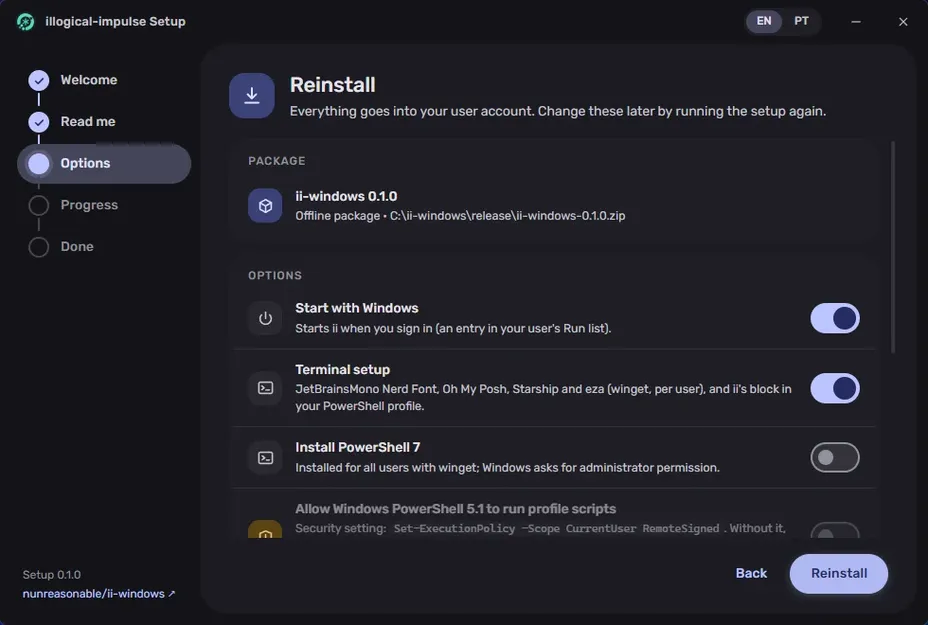
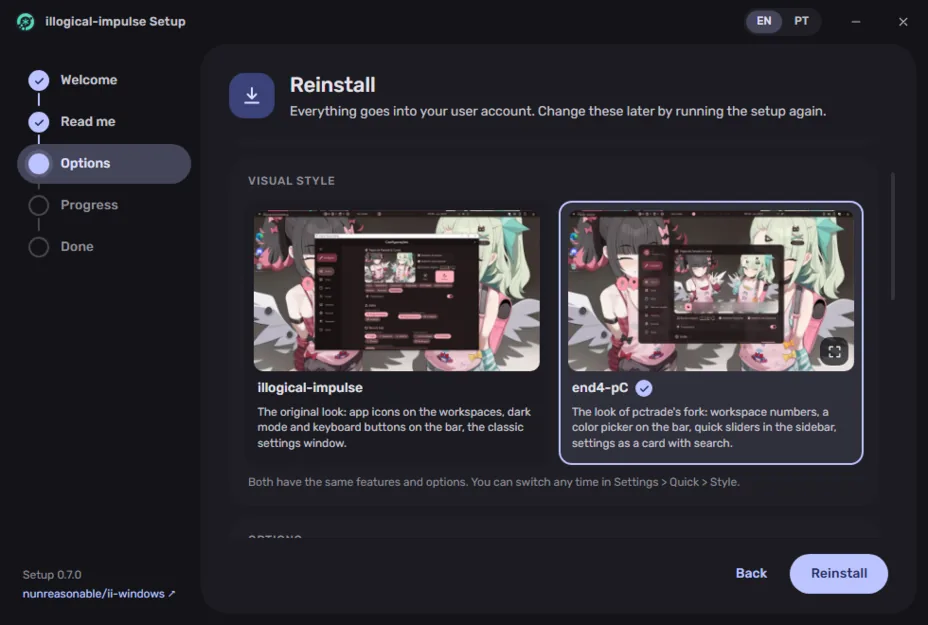
ii-windows 0.7.0: dois visuais, mais leve e mais rápido

diff --git a/filearchive/i18n/dict/illogicalwindows.js b/filearchive/i18n/dict/illogicalwindows.js
@@ -91,7 +91,7 @@ export const pt = {
   "iw.a.tile.bluroff": "O blur só existe enquanto a transparência do ii está ligada, e se desliga com os efeitos de transparência do Windows desativados, alto contraste, economia de energia ou esta variável.",
   "iw.a.input.title": "Entrada e sessão",
   "iw.a.input.spotlight": "Apertar só a tecla Super abre um Spotlight só de busca (apps com os ícones das próprias entradas, arquivos, histórico da área de transferência, emoji, ações do sistema e busca na web); Super+Tab abre os workspaces com as janelas deles. Configurações > Serviços > Busca volta ao overview anterior.",
-  "iw.a.input.coldstart": "Numa VM limitada a dois núcleos lentos e um disco lento, a barra aparece em uns 2 s (0.6.1: uns 5 s; 0.5.0: uns 43 s). Um cache de varredura (qmlscan.bin) pula os ~600 arquivos QML com tamanho e data iguais, e o deploy e o instalador preservam as datas dos arquivos para o cache sobreviver às atualizações. O ii vem com um pacote de bytecode QML pré-compilado, cria a barra primeiro e deixa o resto esperando o primeiro quadro dela: a DLL dos desktops virtuais, a lista inicial de janelas, a reserva da AppBar, rede, mídia, Bluetooth, dispositivos de áudio extras, a bandeja e o compositor do blur do Windows 11. Trabalhos lentos (entradas de apps, miniaturas, sondagens de brilho por WMI) rodam num pool de threads pequeno e dedicado, tema e traduções chegam antes da barra, e nada abre PowerShell nem cmd ao iniciar. Os hooks de entrada saem do estrangulamento de processos em segundo plano do Windows 11.",
+  "iw.a.input.coldstart": "Numa VM limitada a dois núcleos lentos e um disco lento, a barra aparece em uns 1,6 s (0.6.2: uns 1,8 s; 0.6.1: uns 5 s; 0.5.0: uns 43 s). Um cache de varredura (qmlscan.bin) pula os ~600 arquivos QML com tamanho e data iguais e roda numa thread junto com as fontes, e o deploy e o instalador preservam as datas dos arquivos para o cache sobreviver às atualizações. O ii vem com um pacote de bytecode QML pré-compilado, cria a barra primeiro e deixa o resto esperando o primeiro quadro dela: a DLL dos desktops virtuais, a lista inicial de janelas, a reserva da AppBar, rede, mídia, Bluetooth, dispositivos de áudio extras, a bandeja e o compositor do blur do Windows 11. Trabalhos lentos (entradas de apps, miniaturas, sondagens de brilho por WMI) rodam num pool de threads pequeno e dedicado, tema e traduções chegam antes da barra, e nada abre PowerShell nem cmd ao iniciar. Os hooks de entrada saem do estrangulamento de processos em segundo plano do Windows 11.",
   "iw.a.input.hotkeys": "Atalhos globais, com um hook de teclado de baixo nível para a tecla Super isolada. Os binds carregam só no processo do shell.qml (as configurações e a tela de boas-vindas não os registram); os usuários editam o keybinds.json em %LOCALAPPDATA%\\illogical-impulse.",
   "iw.a.input.mouse": "Roda em alta prioridade para as máscaras de input e a barra de tarefas que só aparece no hover. Ele decide sozinho quando uma máscara precisa mudar e só acorda a thread da interface nesse caso; eventos de janelas irrelevantes são descartados antes de chegar nela. O qs log reporta inputs que chegaram atrasados aos hooks.",
   "iw.a.input.taskbar": "O auto-hide é ligado enquanto o ii roda e restaurado ao sair. Um WinEvent EVENT_OBJECT_SHOW no processo do Explorer a esconde de novo assim que um aplicativo abre (no máximo 10 vezes por segundo).",
@@ -157,6 +157,8 @@ export const pt = {
   "iw.a.limits.tray": "Enquanto o ii roda, ferramentas de ajuste da barra de tarefas que procuram pela classe da janela podem não encontrá-la.",
   "iw.features.title": "Tudo que você esperaria do ii",
   "iw.features.lead": "O mesmo QML do Linux sempre que possível, com o Windows fazendo o trabalho por baixo.",
+  "iw.features.styles.title": "Dois visuais",
+  "iw.features.styles.text": "O estilo original do ii ou o do fork end4-pC do pctrade, com as mesmas funções e opções. Escolha no instalador ou quando quiser nas Configurações.",
   "iw.features.bar.title": "Barra e bandeja do sistema",
   "iw.features.bar.text": "Mídia, relógio, bateria e os ícones da bandeja, compartilhados com a bandeja do próprio Explorer.",
   "iw.features.sidebars.title": "Painéis laterais",
@@ -179,6 +181,8 @@ export const pt = {
   "iw.gallery.lead": "Capturas de tela do Windows 11 e do Windows 10. Abra qualquer uma delas para ver em tamanho completo.",
   "iw.gallery.tiling.alt": "Quatro janelas do Bloco de Notas organizadas pelo tiling do ii no layout dwindle do Hyprland, sob a barra do ii",
   "iw.gallery.tiling.caption": "Tiling opcional: o layout dwindle do Hyprland nas áreas de trabalho virtuais do Windows, novidade na 0.4.0.",
+  "iw.gallery.styles.alt": "A barra do ii com os números das áreas de trabalho e o cartão de configurações do end4-pC aberto sobre um papel de parede de anime",
+  "iw.gallery.styles.caption": "O estilo end4-pC, novidade da 0.7.0: o cartão de configurações dele, os números nas áreas de trabalho e o seletor de cor na barra.",
   "iw.gallery.system.alt": "O cheatsheet do ii na aba System, com os dados do host, medidores de CPU, GPU e memória e os discos",
   "iw.gallery.system.caption": "A nova aba System do cheatsheet: CPU, GPU, memória e discos, novidade da 0.6.0.",
   "iw.gallery.spotlight.alt": "A busca Spotlight do ii mostrando os apps instalados com os ícones deles",
@@ -195,8 +199,8 @@ export const pt = {
   "iw.gallery.terminal.caption": "Windows Terminal com tema nas cores do ii e um prompt do Oh My Posh.",
   "iw.gallery.desktop.alt": "Área de trabalho do Windows 10 onde o papel de parede e o relógio do ii ficam atrás dos ícones da área de trabalho",
   "iw.gallery.desktop.caption": "Windows 10 com o arranjo da 0.3–0.4: o papel de parede e o relógio do ii atrás dos ícones. Desde a 0.5.0 o Windows desenha o papel de parede e o ii só acrescenta os widgets.",
-  "iw.gallery.installer.alt": "O instalador do ii-windows na página de opções, com alternadores para iniciar com o Windows e para a configuração do terminal",
-  "iw.gallery.installer.caption": "O instalador: instala, atualiza, repara e desinstala, tudo por usuário.",
+  "iw.gallery.installer.alt": "O instalador do ii-windows na página de opções, escolhendo entre os visuais illogical-impulse e end4-pC, cada um com uma imagem",
+  "iw.gallery.installer.caption": "O instalador: instala, atualiza, repara e desinstala, tudo por usuário, e desde a 0.7.0 escolhe o visual.",
   "iw.install.title": "Baixe o II for Windows",
   "iw.install.lead": "Um único instalador instala, atualiza, repara e desinstala.",
   "iw.install.stepsTitle": "Três passos",
@@ -217,7 +221,7 @@ export const pt = {
   "iw.changes.title": "O que muda no meu PC",
   "iw.changes.lead": "O instalador mostra a lista completa antes de instalar qualquer coisa. Aqui está a versão resumida.",
   "iw.changes.installTitle": "O que é instalado",
-  "iw.changes.program": "O programa, cerca de 210 MB, em %LOCALAPPDATA%\\ii-windows. Nada vai para as pastas do próprio Windows.",
+  "iw.changes.program": "O programa, cerca de 185 MB, em %LOCALAPPDATA%\\ii-windows. Nada vai para as pastas do próprio Windows.",
   "iw.changes.files": "Os arquivos do próprio ii em %LOCALAPPDATA%\\quickshell\\ii, substituídos em cada atualização. Suas configurações ficam separadas, em %LOCALAPPDATA%\\illogical-impulse, e as atualizações nunca as tocam.",
   "iw.changes.entries": "Atalhos no menu Iniciar e uma entrada em Aplicativos chamada “illogical-impulse (ii-windows)”.",
   "iw.changes.options": "Opções: iniciar com o Windows (ligado), a configuração do terminal com a fonte JetBrainsMono Nerd Font, Oh My Posh, Starship e eza (ligado), PowerShell 7 (desligado), FFmpeg (desligado), e permitir que o Windows PowerShell 5.1 execute scripts de perfil, uma configuração de segurança (desligado).",
@@ -235,8 +239,9 @@ export const pt = {
   "iw.changes.un5": "Apaga suas configurações do ii e as chaves de API salvas, a menos que você marque Manter minhas configurações.",
   "iw.changes.cant": "Ele não consegue desfazer áreas de trabalho virtuais, arquivos que você criou (capturas de tela, gravações) ou configurações comuns do Windows que você mudou pelo ii, como volume, Wi-Fi ou pareamentos de Bluetooth.",
   "iw.releases.title": "Notas de versão",
-  "iw.releases.lead": "De só Windows 11 até Windows 10, gravação nativa, tiling, Win + arrastar e uma busca Spotlight, em seis dias.",
+  "iw.releases.lead": "De só Windows 11 até Windows 10, gravação nativa, tiling, Win + arrastar, uma busca Spotlight e um segundo visual, em uma semana.",
   "iw.releases.latest": "Mais recente",
+  "iw.releases.v070": "Escolha o visual: o estilo original do ii ou o do fork end4-pC do pctrade, no instalador (com uma imagem de cada) ou quando quiser em Configurações > Básico > Estilo. Os dois têm as mesmas funções e opções; o estilo end4-pC traz o cartão flutuante de configurações dele, que o Spotlight e o overview conseguem pesquisar. Também inicia um pouco mais rápido na mesma VM lenta (a barra em uns 1,6 s), usa uns 26 MB a menos de memória depois de abrir e ocupa uns 185 MB instalado em vez de 210. Corrige a barra aparecendo mais embaixo e pulando alguns segundos depois de um crash ou de uma atualização.",
   "iw.releases.v062": "Mais rápido em tudo, principalmente em máquinas mais fracas: a barra aparece em uns 2 segundos em vez de 5 na mesma VM lenta, as Configurações abrem dentro do próprio ii já com tema e traduzidas em menos de um segundo, os painéis mantêm a janela depois da primeira abertura e o hook de mouse só acorda o ii quando algo muda debaixo do cursor. Uns 45 MB mais leve. Corrige monitores externos voltando ao brilho máximo a cada inicialização e as traduções que não carregavam com o idioma em \"auto\".",
   "iw.releases.v061": "O app de Configurações agora tem quase todas as opções que antes só existiam no config.json (auto-ocultar a barra, transparência e cor de destaque, formatos de data, dock, teclado na tela, horário da luz noturna, idiomas do tradutor, busca e mais); as opções que só fazem algo no Linux ficam escondidas. Ele também foi traduzido para o português do Brasil.",
   "iw.releases.v060": "Inicia bem mais rápido em máquinas mais fracas: numa VM limitada a dois núcleos lentos e um disco lento, a barra aparece em uns 4 segundos em vez de uns 43. Busca Spotlight na tecla do Windows (apps, arquivos, histórico da área de transferência, emoji, ações do sistema e a web), com o Win+Tab para os workspaces. Uma aba System no cheatsheet com CPU, GPU, memória e discos, e cards de CPU, RAM e disco para a área de trabalho. Corrige o lag de mouse e teclado em máquinas mais fracas, a busca de emoji vazia e travamentos quando o ii recarregava no meio de uma tarefa.",

diff --git a/apps/illogicalwindows/index.html b/apps/illogicalwindows/index.html
@@ -769,6 +769,10 @@
 				background: var(--accent);
 			}
 
+			.features li:last-child:nth-child(3n + 1) {
+				grid-column: 1 / -1;
+			}
+
 			.features h3 {
 				font-size: 1.08rem;
 				font-weight: 600;
@@ -783,6 +787,10 @@
 			@media (max-width: 900px) {
 				.features {
 					grid-template-columns: repeat(2, minmax(0, 1fr));
+				}
+
+				.features li:last-child:nth-child(3n + 1) {
+					grid-column: auto;
 				}
 			}
 
@@ -804,6 +812,10 @@
 				margin: 0;
 			}
 
+			.gallery figure.wide {
+				grid-column: 1 / -1;
+			}
+
 			.gallery a {
 				display: block;
 				overflow: hidden;
@@ -820,6 +832,10 @@
 				object-fit: cover;
 				object-position: top center;
 				transition: transform 300ms var(--ease);
+			}
+
+			.gallery .wide img {
+				aspect-ratio: 16 / 9;
 			}
 
 			.gallery a:hover img {
@@ -1150,7 +1166,7 @@
 
 					<!-- Versao atual: atualizar junto com cada release (VERSION do ii-windows). -->
 					<ul class="facts">
-						<li><span data-i18n="iw.hero.versionLabel">Version</span> <strong>0.6.2</strong></li>
+						<li><span data-i18n="iw.hero.versionLabel">Version</span> <strong>0.7.0</strong></li>
 						<li data-i18n="iw.hero.requirements">Windows 11, or Windows 10 version 2004+ (22H2 recommended)</li>
 						<li data-i18n="iw.hero.free">Free and open source, GPL-3.0</li>
 					</ul>
@@ -1362,7 +1378,7 @@
 									</li>
 									<li>
 										<span class="api">Cold start</span>
-										<span data-i18n="iw.a.input.coldstart">On a VM held to two slow cores and a slow disk the bar shows in about 2 s (0.6.1: about 5 s; 0.5.0: about 43 s). A scan cache (qmlscan.bin) skips the ~600 QML files whose size and date haven't changed, and deploy and setup keep file times so the cache survives updates. ii ships a precompiled QML bytecode bundle, creates the bar first and gates the rest behind its first frame: the virtual desktop DLL, the initial window list, the AppBar reservation, network, media, Bluetooth, extra audio devices, the tray and the Windows 11 blur compositor. Slow jobs (desktop entries, thumbnails, WMI brightness probes) run on a small dedicated thread pool, theme and translations arrive before the bar, and nothing spawns PowerShell or cmd while starting. The input hooks opt out of Windows 11's background-process throttling.</span>
+										<span data-i18n="iw.a.input.coldstart">On a VM held to two slow cores and a slow disk the bar shows in about 1.6 s (0.6.2: about 1.8 s; 0.6.1: about 5 s; 0.5.0: about 43 s). A scan cache (qmlscan.bin) skips the ~600 QML files whose size and date haven't changed and runs on a thread alongside the fonts, and deploy and setup keep file times so the cache survives updates. ii ships a precompiled QML bytecode bundle, creates the bar first and gates the rest behind its first frame: the virtual desktop DLL, the initial window list, the AppBar reservation, network, media, Bluetooth, extra audio devices, the tray and the Windows 11 blur compositor. Slow jobs (desktop entries, thumbnails, WMI brightness probes) run on a small dedicated thread pool, theme and translations arrive before the bar, and nothing spawns PowerShell or cmd while starting. The input hooks opt out of Windows 11's background-process throttling.</span>
 									</li>
 									<li>
 										<span class="api">RegisterHotKey + WH_KEYBOARD_LL</span>
@@ -1565,6 +1581,10 @@
 
 					<ul class="features">
 						<li>
+							<h3 data-i18n="iw.features.styles.title">Two looks</h3>
+							<p data-i18n="iw.features.styles.text">ii's original style or the one from pctrade's end4-pC fork, with the same features and options. Pick it in the setup or any time in Settings.</p>
+						</li>
+						<li>
 							<h3 data-i18n="iw.features.bar.title">Bar and system tray</h3>
 							<p data-i18n="iw.features.bar.text">Media, clock, battery and the tray icons, shared with Explorer's own tray.</p>
 						</li>
@@ -1613,6 +1633,12 @@
 					</header>
 
 					<div class="gallery">
+						<figure class="wide">
+							<a href="../../filearchive/projects/ii-windows/styles.webp" target="_blank" rel="noopener">
+								<img src="../../filearchive/projects/ii-windows/styles.mid.webp" srcset="../../filearchive/projects/ii-windows/styles.mid.webp 1000w, ../../filearchive/projects/ii-windows/styles.webp 1600w" sizes="(min-width: 1120px) 1056px, 100vw" width="1000" height="563" loading="lazy" decoding="async" alt="ii's bar with workspace numbers and the end4-pC settings card open over an anime wallpaper" data-i18n-attr="alt:iw.gallery.styles.alt" />
+							</a>
+							<figcaption data-i18n="iw.gallery.styles.caption">The end4-pC style, new in 0.7.0: its settings card, workspace numbers and a color picker on the bar.</figcaption>
+						</figure>
 						<figure>
 							<a href="../../filearchive/projects/ii-windows/system.webp" target="_blank" rel="noopener">
 								<img src="../../filearchive/projects/ii-windows/system.mid.webp" width="1000" height="625" loading="lazy" decoding="async" alt="ii's cheatsheet on the System tab, with host details, CPU, GPU and memory gauges and the drives" data-i18n-attr="alt:iw.gallery.system.alt" />
@@ -1669,9 +1695,9 @@
 						</figure>
 						<figure>
 							<a href="../../filearchive/projects/ii-windows/installer.webp" target="_blank" rel="noopener">
-								<img src="../../filearchive/projects/ii-windows/installer.mid.webp" width="928" height="625" loading="lazy" decoding="async" alt="The ii-windows setup on its options page, with toggles for starting with Windows and the terminal setup" data-i18n-attr="alt:iw.gallery.installer.alt" />
+								<img src="../../filearchive/projects/ii-windows/installer.mid.webp" width="928" height="625" loading="lazy" decoding="async" alt="The ii-windows setup on its options page, choosing between the illogical-impulse and end4-pC looks, each with a picture" data-i18n-attr="alt:iw.gallery.installer.alt" />
 							</a>
-							<figcaption data-i18n="iw.gallery.installer.caption">The setup: install, update, repair and uninstall, all per user.</figcaption>
+							<figcaption data-i18n="iw.gallery.installer.caption">The setup: install, update, repair and uninstall, all per user, and since 0.7.0 the choice of look.</figcaption>
 						</figure>
 					</div>
 				</div>
@@ -1732,7 +1758,7 @@
 						<article class="card">
 							<h3 data-i18n="iw.changes.installTitle">What gets installed</h3>
 							<ul>
-								<li data-i18n="iw.changes.program">The program, about 210 MB, in %LOCALAPPDATA%\ii-windows. Nothing goes into Windows' own folders.</li>
+								<li data-i18n="iw.changes.program">The program, about 185 MB, in %LOCALAPPDATA%\ii-windows. Nothing goes into Windows' own folders.</li>
 								<li data-i18n="iw.changes.files">ii's own files in %LOCALAPPDATA%\quickshell\ii, replaced on every update. Your settings live apart, in %LOCALAPPDATA%\illogical-impulse, and updates never touch them.</li>
 								<li data-i18n="iw.changes.entries">Start menu shortcuts and an Apps entry called “illogical-impulse (ii-windows)”.</li>
 								<li data-i18n="iw.changes.options">Options: start with Windows (on), the terminal setup with the JetBrainsMono Nerd Font, Oh My Posh, Starship and eza (on), PowerShell 7 (off), FFmpeg (off), and letting Windows PowerShell 5.1 run profile scripts, a security setting (off).</li>
@@ -1772,15 +1798,22 @@
 				<div class="wrap">
 					<header class="section-head">
 						<h2 data-i18n="iw.releases.title">Release notes</h2>
-						<p data-i18n="iw.releases.lead">From Windows 11 only to Windows 10, native recording, tiling, Win + drag and a Spotlight search, in six days.</p>
+						<p data-i18n="iw.releases.lead">From Windows 11 only to Windows 10, native recording, tiling, Win + drag, a Spotlight search and a second look, in a week.</p>
 					</header>
 
 					<ol class="releases">
 						<li>
 							<div class="rel-head">
+								<span class="rel-ver">0.7.0</span>
+								<time datetime="2026-10-09">2026-10-09</time>
+								<span class="rel-latest" data-i18n="iw.releases.latest">Latest</span>
+							</div>
+							<p data-i18n="iw.releases.v070">Pick your look: ii's original style or the one from pctrade's end4-pC fork, in the setup (with a picture of each) or any time in Settings &gt; Quick &gt; Style. Both have the same features and options; the end4-pC style brings its floating settings card, which Spotlight and the overview can search. It also starts a little faster on the same slow VM (the bar in about 1.6 s), uses about 26 MB less memory after start and takes about 185 MB installed instead of 210. Fixes the bar showing up lower and jumping a couple of seconds later after a crash or an update.</p>
+						</li>
+						<li>
+							<div class="rel-head">
 								<span class="rel-ver">0.6.2</span>
 								<time datetime="2026-10-08">2026-10-08</time>
-								<span class="rel-latest" data-i18n="iw.releases.latest">Latest</span>
 							</div>
 							<p data-i18n="iw.releases.v062">Faster everywhere, especially on weaker machines: the bar shows in about 2 seconds instead of 5 on the same slow VM, Settings opens inside ii already themed and translated in under a second, panels keep their window after the first open and the mouse hook only wakes ii when something under the pointer changes. About 45 MB lighter. Fixes external monitors being set back to full brightness on every start and translations not loading with the language on "auto".</p>
 						</li>
@@ -2017,6 +2050,6 @@
 				select(root.getAttribute("data-aud") === "advanced" ? "advanced" : "beginner", false);
 			})();
 		</script>
-		<script type="module" src="../../filearchive/i18n/i18n.js" data-dict="dict/illogicalwindows.js?v=20261009-2"></script>
+		<script type="module" src="../../filearchive/i18n/i18n.js" data-dict="dict/illogicalwindows.js?v=20261009-5"></script>
 	</body>
 </html>

diff --git a/index.html b/index.html
@@ -2595,7 +2595,7 @@
             // lugares sempre que o dicionario mudar - o GitHub Pages guarda o
             // arquivo em cache por 10 minutos, e um dicionario velho com o
             // HTML novo trocava legendas de lugar.
-            pagePt = (await import("./filearchive/i18n/dict/home.js?v=20261008-1")).pt;
+            pagePt = (await import("./filearchive/i18n/dict/home.js?v=20261009-3")).pt;
           } catch (error) {
             pagePt = null;
           }
@@ -2784,7 +2784,7 @@
             slug: "ii-windows",
             title: "ii on Windows",
             tagline: "end-4's illogical-impulse Quickshell desktop, ported from Hyprland to Windows 11 and 10.",
-            status: "Early release · v0.6.2",
+            status: "Early release · v0.7.0",
             tags: ["C++", "C++/WinRT", "Qt 6 / QML", "Quickshell"],
             image: "./filearchive/projects/ii-windows/thumb.webp",
             cover: { src: "./filearchive/projects/ii-windows/cover.webp", w: 760, h: 475 },
@@ -2800,20 +2800,22 @@
               "0.3.0, out on October 5, records the screen with Windows' own capture and H.264 encoder, so FFmpeg isn't needed anymore, adds a system tray to ii's bar that shares Explorer's icons, and moves the wallpaper and widgets inside the Windows desktop, behind the icons. The translator and screen translator, music recognition (SongRec) and LaTeX in the AI chat (a cross-compiled MicroTeX) now work on Windows too. It's merged with Quickshell 0.3.1 and the latest ii from end-4, and the setup now checks GitHub for a newer release every time it opens and updates itself first. 0.3.1 followed the same day with two fixes: the Windows 10 blur no longer shows as a band around the floating bar's rounded ends, and the setup window opens in the free part of the screen instead of under ii's bar.",
               "0.4.0, released the same evening, adds optional tiling: Hyprland's dwindle layout on top of Windows' own virtual desktops, driven by ii's keybinds, with no extra window manager to install (it's off by default). The screen translator now lays each translated paragraph over the original text, desktop widgets sit next to the icons and can be dragged again, tray icons of apps started before ii respond to clicks, and the classic PowerShell console gets ii's colors and font. It also fixes a crash in the Windows 10 virtual desktop helper, a second copy of ii starting on top of the first, and the bar sometimes losing its reserved space.",
               "0.5.0, a day later, lets you hold Win and drag to move a window or Win + right drag to resize it, with tiling and across monitors with different scaling. Windows draws the wallpaper again and ii only puts its widgets on the desktop, so changing the wallpaper in Windows recolors ii. The bar shrinks its applets when they don't fit, and there's a media visualizer, a native color picker, weather, game mode and a WARP toggle.",
-              "0.6.0 starts much faster on weaker machines: on a VM held to two slow cores and a slow disk the bar shows in about 4 seconds instead of about 43. The Windows key opens a Spotlight search for apps, files, clipboard history, emoji, system actions and the web, Win+Tab the workspaces, and the cheatsheet gets a System tab with CPU, GPU, memory and disks. 0.6.1 brings almost every option into the Settings app, now also in Brazilian Portuguese, and 0.6.2 makes everything faster again: the bar shows in about 2 seconds on that same VM, Settings opens inside ii in under a second and the download is about 45 MB lighter. It's still experimental, and the setup isn't signed yet, so SmartScreen may warn about it."
+              "0.6.0 starts much faster on weaker machines: on a VM held to two slow cores and a slow disk the bar shows in about 4 seconds instead of about 43. The Windows key opens a Spotlight search for apps, files, clipboard history, emoji, system actions and the web, Win+Tab the workspaces, and the cheatsheet gets a System tab with CPU, GPU, memory and disks. 0.6.1 brings almost every option into the Settings app, now also in Brazilian Portuguese, and 0.6.2 makes everything faster again: the bar shows in about 2 seconds on that same VM, Settings opens inside ii in under a second and the download is about 45 MB lighter.",
+              "0.7.0 lets you choose between ii's original look and the look of pctrade's end4-pC fork, in the setup or any time in Settings, with the same features and options in both. It also starts a little faster, uses about 26 MB less memory after start and is about 25 MB smaller installed. It's still experimental, and the setup isn't signed yet, so SmartScreen may warn about it."
             ],
             images: [
               { src: "./filearchive/projects/ii-windows/themed.webp", w: 1600, h: 900, alt: "Windows 11 desktop with the ii bar and clock, colored from an anime wallpaper", caption: "ii's colors taken from the Windows wallpaper; the taskbar only shows up at the bottom edge" },
               { src: "./filearchive/projects/ii-windows/system.webp", w: 1280, h: 800, alt: "ii's cheatsheet on the System tab, with host details, CPU, GPU and memory gauges and the drives", caption: "The cheatsheet's System tab: CPU, GPU, memory and drives, new in 0.6.0" },
               { src: "./filearchive/projects/ii-windows/spotlight.webp", w: 900, h: 600, alt: "ii's Spotlight search showing the installed apps with their icons", caption: "Spotlight on the Windows key: apps, files, system actions, emoji and the clipboard, new in 0.6.0" },
               { src: "./filearchive/projects/ii-windows/tiling.webp", w: 1024, h: 768, alt: "Four Notepad windows arranged by ii's tiling in Hyprland's dwindle layout, under ii's bar", caption: "Optional tiling: Hyprland's dwindle layout on Windows' virtual desktops, new in 0.4.0" },
-              { src: "./filearchive/projects/ii-windows/installer.webp", w: 980, h: 660, alt: "The ii-windows setup on its options page, with toggles for starting with Windows and the terminal setup", caption: "The setup: install, update, repair and uninstall, all per user" },
+              { src: "./filearchive/projects/ii-windows/installer.webp", w: 980, h: 660, alt: "The ii-windows setup on its options page, choosing between the illogical-impulse and end4-pC looks, each with a picture", caption: "The setup: install, update, repair and uninstall, all per user, and since 0.7.0 the choice of look" },
               { src: "./filearchive/projects/ii-windows/desktop-icons.webp", w: 1024, h: 768, alt: "Windows 10 desktop where ii's wallpaper and clock sit behind the desktop icons", caption: "Windows 10 (0.2.0), with the wallpaper and clock behind the desktop icons (0.3.0)" },
               { src: "./filearchive/projects/ii-windows/translator.webp", w: 1280, h: 800, alt: "ii's left sidebar translator turning a Portuguese sentence into English", caption: "The translator in the left sidebar, new in 0.3.0" },
               { src: "./filearchive/projects/ii-windows/terminal.webp", w: 1600, h: 900, alt: "Windows Terminal windows in ii's pink palette with an Oh My Posh prompt", caption: "Windows Terminal themed with ii's colors and an Oh My Posh prompt" },
               { src: "./filearchive/projects/ii-windows/cheatsheet.webp", w: 1600, h: 900, alt: "ii keybind cheatsheet listing shell, media, window and app shortcuts", caption: "Keybind cheatsheet on Super+/, following the keyboard layout" },
               { src: "./filearchive/projects/ii-windows/sidebar.webp", w: 1600, h: 900, alt: "ii right sidebar open with quick toggles, notifications and a calendar", caption: "Right sidebar: quick toggles, notifications and calendar" },
-              { src: "./filearchive/projects/ii-windows/overview.webp", w: 1600, h: 900, alt: "ii workspace overview with a search field", caption: "Workspace overview, on Win+Tab since 0.6.0" }
+              { src: "./filearchive/projects/ii-windows/overview.webp", w: 1600, h: 900, alt: "ii workspace overview with a search field", caption: "Workspace overview, on Win+Tab since 0.6.0" },
+              { src: "./filearchive/projects/ii-windows/styles.webp", w: 1600, h: 900, alt: "ii's bar with workspace numbers and the end4-pC settings card open over an anime wallpaper", caption: "The end4-pC style, new in 0.7.0: its settings card, workspace numbers and a color picker on the bar" }
             ],
             links: [
               { label: "Website", href: "https://apps.daeese.me/illogicalwindows/", primary: true },
@@ -4373,6 +4375,6 @@
     <!-- Seletor EN/PT, o mesmo modulo das paginas do Sollarety e do ccore. Roda
          depois do script acima (modulo e sempre adiado), entao os cards de
          projeto ja existem quando ele le o ingles do DOM. -->
-    <script type="module" src="./filearchive/i18n/i18n.js" data-dict="dict/home.js?v=20261008-1"></script>
+    <script type="module" src="./filearchive/i18n/i18n.js" data-dict="dict/home.js?v=20261009-3"></script>
   </body>
 </html>

diff --git a/filearchive/i18n/dict/home.js b/filearchive/i18n/dict/home.js
@@ -107,7 +107,7 @@ export const pt = {
   "p.ii-windows.title": "ii no Windows",
   "p.ii-windows.tagline":
     "O desktop illogical-impulse do end-4, feito em Quickshell, portado do Hyprland para o Windows 11 e 10.",
-  "p.ii-windows.status": "Versão experimental · v0.6.2",
+  "p.ii-windows.status": "Versão experimental · v0.7.0",
   "p.ii-windows.d0":
     "O illogical-impulse (ii) é o shell de desktop em Quickshell que o end-4 fez para o Hyprland: a barra, as barras laterais, o overview e os widgets. Este port faz ele rodar num desktop de verdade do Windows, 11 ou 10, e chegar lá exige dois forks.",
   "p.ii-windows.d1":
@@ -127,7 +127,9 @@ export const pt = {
   "p.ii-windows.d8":
     "A 0.5.0, um dia depois, deixa segurar Win e arrastar para mover uma janela, ou Win + arrastar com o botão direito para redimensionar, com tiling e entre monitores com escalas diferentes. O Windows volta a desenhar o papel de parede e o ii só põe os widgets dele na área de trabalho, então trocar o papel de parede no Windows recolore o ii. A barra encolhe os applets quando eles não cabem, e chegam um visualizador de mídia, um seletor de cor nativo, clima, game mode e o botão do WARP.",
   "p.ii-windows.d9":
-    "A 0.6.0 inicia bem mais rápido em máquinas mais fracas: numa VM limitada a dois núcleos lentos e um disco lento, a barra aparece em uns 4 segundos em vez de uns 43. A tecla do Windows abre uma busca Spotlight para apps, arquivos, histórico da área de transferência, emoji, ações do sistema e a web, o Win+Tab abre os workspaces, e o cheatsheet ganha uma aba System com CPU, GPU, memória e discos. A 0.6.1 traz quase todas as opções para o app de Configurações, agora também em português do Brasil, e a 0.6.2 deixa tudo mais rápido de novo: a barra aparece em uns 2 segundos naquela mesma VM, as Configurações abrem dentro do ii em menos de um segundo e o download ficou uns 45 MB mais leve. Continua experimental, e o instalador ainda não é assinado, então o SmartScreen pode avisar.",
+    "A 0.6.0 inicia bem mais rápido em máquinas mais fracas: numa VM limitada a dois núcleos lentos e um disco lento, a barra aparece em uns 4 segundos em vez de uns 43. A tecla do Windows abre uma busca Spotlight para apps, arquivos, histórico da área de transferência, emoji, ações do sistema e a web, o Win+Tab abre os workspaces, e o cheatsheet ganha uma aba System com CPU, GPU, memória e discos. A 0.6.1 traz quase todas as opções para o app de Configurações, agora também em português do Brasil, e a 0.6.2 deixa tudo mais rápido de novo: a barra aparece em uns 2 segundos naquela mesma VM, as Configurações abrem dentro do ii em menos de um segundo e o download ficou uns 45 MB mais leve.",
+  "p.ii-windows.d10":
+    "A 0.7.0 deixa escolher entre o visual original do ii e o visual do fork end4-pC do pctrade, no instalador ou quando quiser nas Configurações, com as mesmas funções e opções nos dois. Também inicia um pouco mais rápido, usa uns 26 MB a menos de memória depois de abrir e ocupa uns 25 MB a menos instalado. Continua experimental, e o instalador ainda não é assinado, então o SmartScreen pode avisar.",
   "p.ii-windows.link0": "Site",
   "p.ii-windows.link1": "Baixar o instalador",
   "p.ii-windows.link2": "ii-windows no GitHub",
@@ -137,7 +139,7 @@ export const pt = {
   "p.ii-windows.cap1": "A aba System do cheatsheet: CPU, GPU, memória e discos, novidade da 0.6.0",
   "p.ii-windows.cap2": "Spotlight na tecla do Windows: apps, arquivos, ações do sistema, emoji e a área de transferência, novidade da 0.6.0",
   "p.ii-windows.cap3": "Tiling opcional: o layout dwindle do Hyprland nas áreas de trabalho virtuais do Windows, novidade da 0.4.0",
-  "p.ii-windows.cap4": "O instalador: instala, atualiza, repara e desinstala, tudo por usuário",
+  "p.ii-windows.cap4": "O instalador: instala, atualiza, repara e desinstala, tudo por usuário, e desde a 0.7.0 escolhe o visual",
   "p.ii-windows.cap5": "Windows 10 (0.2.0), com o wallpaper e o relógio atrás dos ícones da área de trabalho (0.3.0)",
   "p.ii-windows.cap6": "O tradutor na barra lateral esquerda, novidade da 0.3.0",
   "p.ii-windows.cap7": "Windows Terminal com as cores do ii e um prompt do Oh My Posh",
@@ -148,12 +150,14 @@ export const pt = {
   "p.ii-windows.alt1": "O cheatsheet do ii na aba System, com os dados do host, medidores de CPU, GPU e memória e os discos",
   "p.ii-windows.alt2": "A busca Spotlight do ii mostrando os apps instalados com os ícones deles",
   "p.ii-windows.alt3": "Quatro janelas do Bloco de Notas organizadas pelo tiling do ii no layout dwindle do Hyprland, embaixo da barra do ii",
-  "p.ii-windows.alt4": "O instalador do ii-windows na página de opções, com chaves para iniciar com o Windows e configurar o terminal",
+  "p.ii-windows.alt4": "O instalador do ii-windows na página de opções, escolhendo entre os visuais illogical-impulse e end4-pC, cada um com uma imagem",
   "p.ii-windows.alt5": "Área de trabalho do Windows 10 em que o wallpaper e o relógio do ii ficam atrás dos ícones",
   "p.ii-windows.alt6": "O tradutor da barra lateral esquerda do ii passando uma frase em português para o inglês",
   "p.ii-windows.alt7": "Janelas do Windows Terminal na paleta rosa do ii com um prompt do Oh My Posh",
   "p.ii-windows.alt8": "Cheatsheet de atalhos do ii com os atalhos do shell, de mídia, de janelas e de apps",
   "p.ii-windows.alt9": "Barra lateral direita do ii aberta, com atalhos rápidos, notificações e um calendário",
+  "p.ii-windows.cap11": "O estilo end4-pC, novidade da 0.7.0: o cartão de configurações dele, os números nas áreas de trabalho e o seletor de cor na barra",
+  "p.ii-windows.alt11": "A barra do ii com os números das áreas de trabalho e o cartão de configurações do end4-pC aberto sobre um papel de parede de anime",
   "p.ii-windows.alt10": "Overview dos workspaces do ii com um campo de busca",
 
   // --- Sollarety -------------------------------------------------------------
